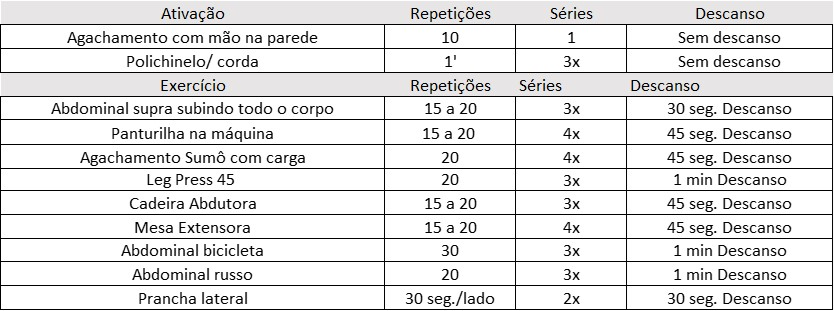
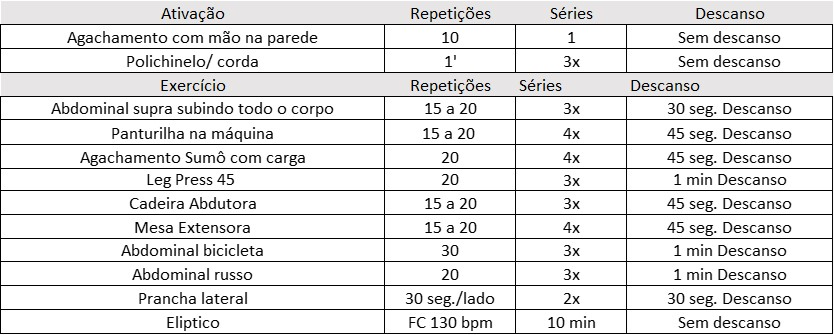
dani

Changed region(s): [[0.0, 0.0289, 1.0, 1.0]]

diff --git a/docs/atletas/4117.html b/docs/atletas/4117.html
@@ -67,11 +67,12 @@
                     intervalo de repetições. Vale ressaltar que a carga deve respeitar as repetições, ou seja, se ao acabar o exercícío 
                     você conseguir fazer
                     50% a mais do que o normal, aumentar a carga. Exemplo: 4x10 na ultima série conseguiria fazer mais 5, aumentar o peso.
-                    Atenção em tensionar o pescoço, e sempre manter o abdômen contraído.
+                    Atenção em tensionar o pescoço, e sempre manter o abdômen contraído. Fazer a esteira com uma média de no mínimo 135 bpm
+                    em 10 min, caso não consiga o objetivo, correr 1 minuto a cada bpm a menos.
                     Respeitar o tempo de descanso.      
             </p>
             <div class="galeria">
-                <iframe width="314" height="225" src="https://www.youtube.com/embed/ZCMRZSRTO8A"frameborder="0"
+                <iframe width="314" height="225" src="https://www.youtube.com/embed/tlVG2_TbOTM"frameborder="0"
                     allow="accelerometer; autoplay; encrypted-media; gyroscope; picture-in-picture"
                     allowfullscreen></iframe>
             </div>
@@ -84,10 +85,12 @@
                 <img class="shoot" src="../galeria/daniestatb.jpg">
                 <p>O treino B é feito com exercícios de membros inferiores e abdômen. Atenção na execução do movimento.
                     Focar bastante na amplitude dos exercícios e não realizar as repetições rápidas, executar
-                    movimentos lentos e precisos com foco em pescoço e lombar.    
+                    movimentos lentos e precisos com foco em pescoço e lombar. Fazer o elíptico com uma média de no mínimo 130 bpm
+                    em 10 min, caso não consiga o objetivo, ir 1 minuto a cada bpm a menos.
+                    Respeitar o tempo de descanso. 
                 </p>
             <div class="galeria">
-                <iframe width="314" height="225" src="https://www.youtube.com/embed/Fo9aAWNJhLc"frameborder="0"
+                <iframe width="314" height="225" src="https://www.youtube.com/embed/5eM65fSxtM4"frameborder="0"
                     allow="accelerometer; autoplay; encrypted-media; gyroscope; picture-in-picture"
                     allowfullscreen></iframe>
             </div>
@@ -106,7 +109,7 @@
                      
             </p>
             <div class="galeria">
-                <iframe width="314" height="225" src="https://www.youtube.com/embed/N-yPR7oEzSk"frameborder="0"
+                <iframe width="314" height="225" src="https://www.youtube.com/embed/EI3vbQ0Sdvc"frameborder="0"
                     allow="accelerometer; autoplay; encrypted-media; gyroscope; picture-in-picture"
                     allowfullscreen></iframe>
             </div>
